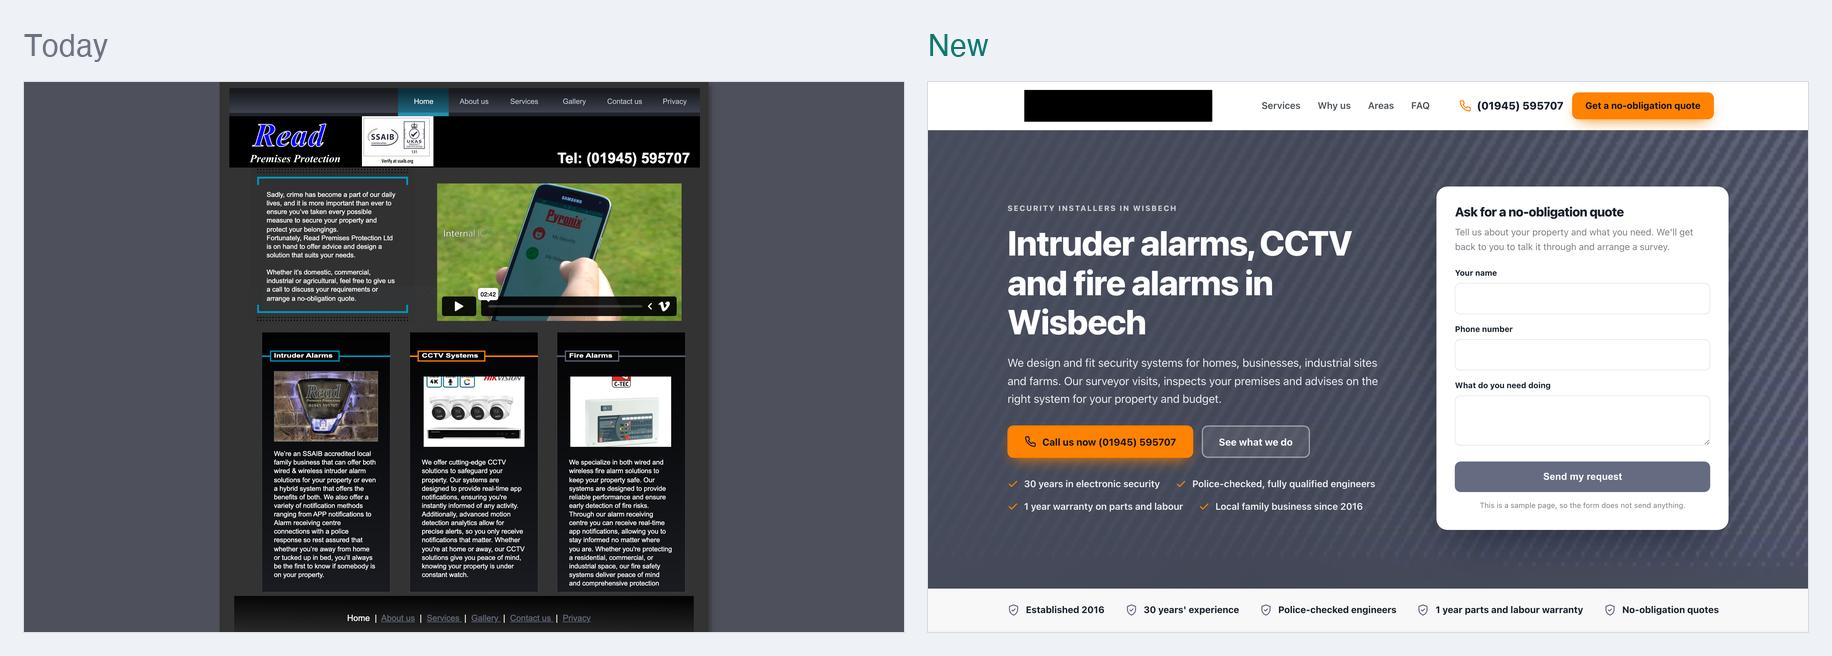
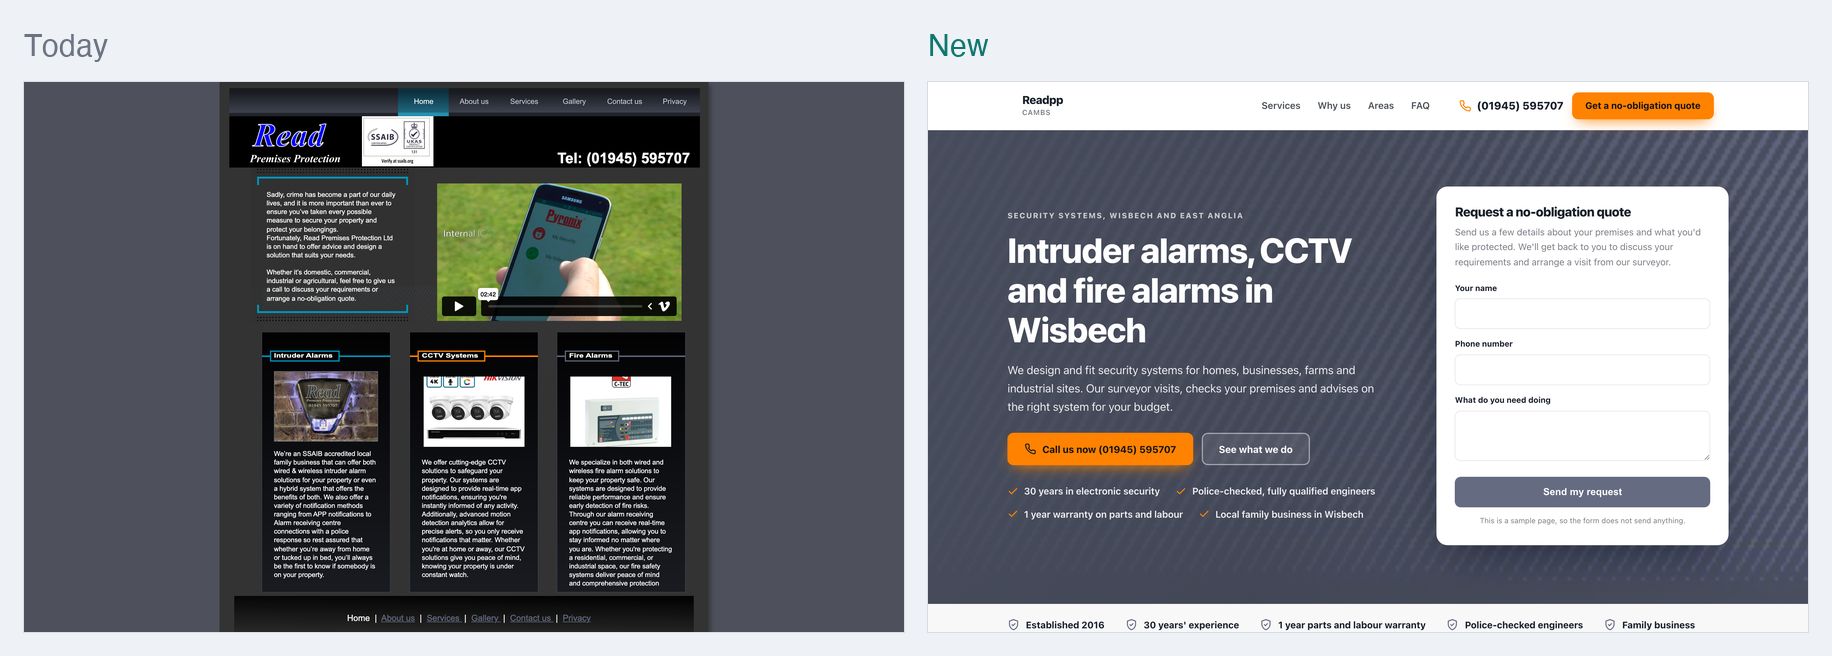
One page sample for Readpp

diff --git a/docs/7d1f97f49b/index.html b/docs/7d1f97f49b/index.html
@@ -4,14 +4,14 @@
 <meta charset="utf-8">
 <meta name="viewport" content="width=device-width, initial-scale=1">
 <meta name="robots" content="noindex,nofollow">
-<meta name="aso-build" content="a8b2d917ddff">
-<title>Security Alarms &amp; CCTV in Wisbech | Read Premises Protection</title>
-<meta name="description" content="Intruder alarms, CCTV, fire alarms and access control in Wisbech. Police-checked engineers, 30 years&#39; experience and a 1 year warranty on parts and labour.">
+<meta name="aso-build" content="519302d9b89e">
+<title>Security Alarms &amp; CCTV Wisbech | Read Premises Protection</title>
+<meta name="description" content="Intruder alarms, CCTV, fire alarms and access control in Wisbech and East Anglia. No-obligation quotes from police-checked, fully qualified engineers.">
 <link rel="canonical" href="https://markygff.github.io/aso-mockups/7d1f97f49b/">
 <meta property="og:type" content="website">
 <meta property="og:site_name" content="Readpp">
-<meta property="og:title" content="Security Alarms &amp; CCTV in Wisbech | Read Premises Protection">
-<meta property="og:description" content="Intruder alarms, CCTV, fire alarms and access control in Wisbech. Police-checked engineers, 30 years&#39; experience and a 1 year warranty on parts and labour.">
+<meta property="og:title" content="Security Alarms &amp; CCTV Wisbech | Read Premises Protection">
+<meta property="og:description" content="Intruder alarms, CCTV, fire alarms and access control in Wisbech and East Anglia. No-obligation quotes from police-checked, fully qualified engineers.">
 <meta property="og:url" content="https://markygff.github.io/aso-mockups/7d1f97f49b/">
 <meta property="og:image" content="img/p02.jpg"><meta name="twitter:card" content="summary_large_image">
 <style>
@@ -268,7 +268,10 @@ p{margin:0}
 <header class="header">
   <div class="wrap header-in">
     <div class="brand">
-<img src="img/logo.png" alt="Readpp logo">    </div>
+      <div>
+        <div class="brand-name">Readpp</div>
+<div class="brand-sub">Cambs</div>      </div>
+    </div>
     <nav class="nav">
       <a href="#services">Services</a>
       <a href="#why">Why us</a>
@@ -287,19 +290,19 @@ p{margin:0}
   <div class="hero-bg"><img src="img/p02.jpg" alt="Readpp at work" width="1600" height="900"></div>
   <div class="wrap hero-in">
     <div>
-      <p class="eyebrow">Security installers in Wisbech</p>
+      <p class="eyebrow">Security systems, Wisbech and East Anglia</p>
       <h1>Intruder alarms, CCTV and fire alarms in Wisbech</h1>
-      <p class="hero-sub">We design and fit security systems for homes, businesses, industrial sites and farms. Our surveyor visits, inspects your premises and advises on the right system for your property and budget.</p>
+      <p class="hero-sub">We design and fit security systems for homes, businesses, farms and industrial sites. Our surveyor visits, checks your premises and advises on the right system for your budget.</p>
       <div class="hero-actions">
         <a class="btn btn-accent" href="tel:+441945595707"><svg viewBox="0 0 24 24" fill="none" stroke="currentColor" stroke-width="2" stroke-linecap="round" stroke-linejoin="round" aria-hidden="true"><path d="M22 16.9v3a2 2 0 0 1-2.2 2 19.8 19.8 0 0 1-8.6-3.1 19.5 19.5 0 0 1-6-6 19.8 19.8 0 0 1-3.1-8.7A2 2 0 0 1 4.1 2h3a2 2 0 0 1 2 1.7c.1 1 .4 1.9.7 2.8a2 2 0 0 1-.5 2.1L8.1 9.9a16 16 0 0 0 6 6l1.3-1.2a2 2 0 0 1 2.1-.5c.9.3 1.8.6 2.8.7a2 2 0 0 1 1.7 2z"/></svg>Call us now (01945) 595707</a>
         <a class="btn btn-ghost" href="#services">See what we do</a>
       </div>
       <ul class="hero-bullets">
-<li><svg viewBox="0 0 24 24" fill="none" stroke="currentColor" stroke-width="2.4" stroke-linecap="round" stroke-linejoin="round" aria-hidden="true"><path d="M20 6 9 17l-5-5"/></svg><span>30 years in electronic security</span></li><li><svg viewBox="0 0 24 24" fill="none" stroke="currentColor" stroke-width="2.4" stroke-linecap="round" stroke-linejoin="round" aria-hidden="true"><path d="M20 6 9 17l-5-5"/></svg><span>Police-checked, fully qualified engineers</span></li><li><svg viewBox="0 0 24 24" fill="none" stroke="currentColor" stroke-width="2.4" stroke-linecap="round" stroke-linejoin="round" aria-hidden="true"><path d="M20 6 9 17l-5-5"/></svg><span>1 year warranty on parts and labour</span></li><li><svg viewBox="0 0 24 24" fill="none" stroke="currentColor" stroke-width="2.4" stroke-linecap="round" stroke-linejoin="round" aria-hidden="true"><path d="M20 6 9 17l-5-5"/></svg><span>Local family business since 2016</span></li>      </ul>
+<li><svg viewBox="0 0 24 24" fill="none" stroke="currentColor" stroke-width="2.4" stroke-linecap="round" stroke-linejoin="round" aria-hidden="true"><path d="M20 6 9 17l-5-5"/></svg><span>30 years in electronic security</span></li><li><svg viewBox="0 0 24 24" fill="none" stroke="currentColor" stroke-width="2.4" stroke-linecap="round" stroke-linejoin="round" aria-hidden="true"><path d="M20 6 9 17l-5-5"/></svg><span>Police-checked, fully qualified engineers</span></li><li><svg viewBox="0 0 24 24" fill="none" stroke="currentColor" stroke-width="2.4" stroke-linecap="round" stroke-linejoin="round" aria-hidden="true"><path d="M20 6 9 17l-5-5"/></svg><span>1 year warranty on parts and labour</span></li><li><svg viewBox="0 0 24 24" fill="none" stroke="currentColor" stroke-width="2.4" stroke-linecap="round" stroke-linejoin="round" aria-hidden="true"><path d="M20 6 9 17l-5-5"/></svg><span>Local family business in Wisbech</span></li>      </ul>
     </div>
     <div class="quote-card" id="quote">
-      <h3>Ask for a no-obligation quote</h3>
-      <p class="lead">Tell us about your property and what you need. We&#39;ll get back to you to talk it through and arrange a survey.</p>
+      <h3>Request a no-obligation quote</h3>
+      <p class="lead">Send us a few details about your premises and what you&#39;d like protected. We&#39;ll get back to you to discuss your requirements and arrange a visit from our surveyor.</p>
       <form action="#" onsubmit="return false" novalidate>
         <div class="field"><label for="h-name">Your name</label>
           <input id="h-name" name="name" type="text" autocomplete="name"></div>
@@ -318,9 +321,9 @@ p{margin:0}
   <div class="wrap trust-in">
     <div class="trust-item"><svg viewBox="0 0 24 24" fill="none" stroke="currentColor" stroke-width="2" stroke-linecap="round" stroke-linejoin="round" aria-hidden="true"><path d="M12 2 4 5v6c0 5 3.4 9.4 8 11 4.6-1.6 8-6 8-11V5z"/><path d="m9 12 2 2 4-4"/></svg><span>Established 2016</span></div>
     <div class="trust-item"><svg viewBox="0 0 24 24" fill="none" stroke="currentColor" stroke-width="2" stroke-linecap="round" stroke-linejoin="round" aria-hidden="true"><path d="M12 2 4 5v6c0 5 3.4 9.4 8 11 4.6-1.6 8-6 8-11V5z"/><path d="m9 12 2 2 4-4"/></svg><span>30 years&#39; experience</span></div>
-    <div class="trust-item"><svg viewBox="0 0 24 24" fill="none" stroke="currentColor" stroke-width="2" stroke-linecap="round" stroke-linejoin="round" aria-hidden="true"><path d="M12 2 4 5v6c0 5 3.4 9.4 8 11 4.6-1.6 8-6 8-11V5z"/><path d="m9 12 2 2 4-4"/></svg><span>Police-checked engineers</span></div>
     <div class="trust-item"><svg viewBox="0 0 24 24" fill="none" stroke="currentColor" stroke-width="2" stroke-linecap="round" stroke-linejoin="round" aria-hidden="true"><path d="M12 2 4 5v6c0 5 3.4 9.4 8 11 4.6-1.6 8-6 8-11V5z"/><path d="m9 12 2 2 4-4"/></svg><span>1 year parts and labour warranty</span></div>
-    <div class="trust-item"><svg viewBox="0 0 24 24" fill="none" stroke="currentColor" stroke-width="2" stroke-linecap="round" stroke-linejoin="round" aria-hidden="true"><path d="M12 2 4 5v6c0 5 3.4 9.4 8 11 4.6-1.6 8-6 8-11V5z"/><path d="m9 12 2 2 4-4"/></svg><span>No-obligation quotes</span></div>
+    <div class="trust-item"><svg viewBox="0 0 24 24" fill="none" stroke="currentColor" stroke-width="2" stroke-linecap="round" stroke-linejoin="round" aria-hidden="true"><path d="M12 2 4 5v6c0 5 3.4 9.4 8 11 4.6-1.6 8-6 8-11V5z"/><path d="m9 12 2 2 4-4"/></svg><span>Police-checked engineers</span></div>
+    <div class="trust-item"><svg viewBox="0 0 24 24" fill="none" stroke="currentColor" stroke-width="2" stroke-linecap="round" stroke-linejoin="round" aria-hidden="true"><path d="M12 2 4 5v6c0 5 3.4 9.4 8 11 4.6-1.6 8-6 8-11V5z"/><path d="m9 12 2 2 4-4"/></svg><span>Family business</span></div>
   </div>
 </div>
 
@@ -328,29 +331,29 @@ p{margin:0}
   <div class="wrap">
     <div class="section-head">
       <p class="eyebrow">What we do</p>
-      <h2>Security systems we install</h2>
-      <p>We fit security systems for domestic, commercial, industrial and agricultural properties. Every job starts with a survey so you get the right system.</p>
+      <h2>Security systems we install in Wisbech</h2>
+      <p>We fit and advise on security for domestic, commercial, industrial and agricultural premises. Tell us what you need protecting and we&#39;ll suggest the right system.</p>
     </div>
     <div class="grid grid-3">
       <article class="card">
         <div class="icon"><svg viewBox="0 0 24 24" fill="none" stroke="currentColor" stroke-width="2" stroke-linecap="round" stroke-linejoin="round" aria-hidden="true"><path d="M14.7 6.3a4 4 0 0 0 5.3 5.3l-8 8a3 3 0 0 1-4.2-4.2z"/><path d="m14.7 6.3 3-3"/></svg></div>
         <h3>Intruder Alarms</h3>
-        <p>Wired, wireless or hybrid alarms. Choose app alerts or a link to an alarm receiving centre with a police response.</p>
+        <p>Wired, wireless or hybrid alarms with app alerts or an alarm receiving centre link with police response.</p>
       </article>
       <article class="card">
         <div class="icon"><svg viewBox="0 0 24 24" fill="none" stroke="currentColor" stroke-width="2" stroke-linecap="round" stroke-linejoin="round" aria-hidden="true"><path d="M13 2 4 14h7l-1 8 9-12h-7z"/></svg></div>
-        <h3>CCTV Systems</h3>
-        <p>Cameras with real-time app alerts and motion detection analytics, so you only get told about activity that matters.</p>
+        <h3>CCTV systems</h3>
+        <p>Cameras with real-time app alerts and motion detection analytics, so you only get the notifications that matter.</p>
       </article>
       <article class="card">
         <div class="icon"><svg viewBox="0 0 24 24" fill="none" stroke="currentColor" stroke-width="2" stroke-linecap="round" stroke-linejoin="round" aria-hidden="true"><path d="M3 10.5 12 3l9 7.5"/><path d="M5 9.5V21h14V9.5"/><path d="M10 21v-6h4v6"/></svg></div>
         <h3>Access Control Systems</h3>
-        <p>Control who can get into your premises. Our surveyor will advise on the right setup for your property and budget.</p>
+        <p>Control who can get into your premises. Our surveyor will advise on the right setup for your building and budget.</p>
       </article>
       <article class="card">
         <div class="icon"><svg viewBox="0 0 24 24" fill="none" stroke="currentColor" stroke-width="2" stroke-linecap="round" stroke-linejoin="round" aria-hidden="true"><path d="M4 20 15 9"/><path d="m14 4 6 6-3 3-6-6z"/><path d="m3 15 6 6"/></svg></div>
-        <h3>Fire Alarms</h3>
-        <p>Wired and wireless fire alarms for homes, businesses and industrial sites, with early detection and app alerts through our alarm receiving centre.</p>
+        <h3>Fire alarms</h3>
+        <p>Wired and wireless fire alarms for homes, businesses and industrial sites, with real-time app alerts through our alarm receiving centre.</p>
       </article>
     </div>
   </div>
@@ -360,35 +363,35 @@ p{margin:0}
   <div class="wrap">
     <div class="section-head">
       <p class="eyebrow">Why us</p>
-      <h2>Why people choose Read Premises Protection</h2>
+      <h2>Why choose Read Premises Protection</h2>
     </div>
     <div class="grid grid-2">
       <div class="why-item">
         <div class="why-badge">1</div>
         <div>
-          <h3>Advice before anything else</h3>
-          <p>Our surveyor visits, carries out a full inspection and recommends a system to suit your property and budget.</p>
+          <h3>Years of experience</h3>
+          <p>We&#39;ve been established since 2016 and bring 30 years of expertise in electronic security systems.</p>
         </div>
       </div>
       <div class="why-item">
         <div class="why-badge">2</div>
         <div>
-          <h3>Police-checked engineers</h3>
-          <p>Our engineers are fully trained to the highest standards and have undergone strict police checks.</p>
+          <h3>Vetted engineers</h3>
+          <p>Our engineers are fully trained to the highest standards and have passed strict police checks.</p>
         </div>
       </div>
       <div class="why-item">
         <div class="why-badge">3</div>
         <div>
-          <h3>Out at short notice</h3>
-          <p>We can often have an engineer on site at short notice. We work around your business to keep disruption low.</p>
+          <h3>Covered for a year</h3>
+          <p>All our work comes with a 1 year warranty on parts and labour.</p>
         </div>
       </div>
       <div class="why-item">
         <div class="why-badge">4</div>
         <div>
-          <h3>Work that&#39;s covered</h3>
-          <p>Every job we do carries a 1 year warranty on all parts and labour.</p>
+          <h3>Minimal disruption</h3>
+          <p>We work around your business and can often have an engineer on site at short notice.</p>
         </div>
       </div>
     </div>
@@ -400,8 +403,8 @@ p{margin:0}
   <div class="wrap">
     <div class="section-head">
       <p class="eyebrow">Where we work</p>
-      <h2>Security installers covering Wisbech and East Anglia</h2>
-      <p>We&#39;re based in Wisbech, on the borders of Cambridgeshire, Norfolk and Lincolnshire. From here we cover all areas of East Anglia.</p>
+      <h2>Security installers based in Wisbech</h2>
+      <p>We&#39;re based in Wisbech, on the borders of Cambridgeshire, Norfolk and Lincolnshire. That puts us in a good position to serve all areas of East Anglia.</p>
     </div>
     <ul class="area-list">
 <li>Wisbech</li>    </ul>
@@ -412,27 +415,27 @@ p{margin:0}
   <div class="wrap" style="max-width:840px">
     <div class="section-head">
       <p class="eyebrow">Questions</p>
-      <h2>Alarm and CCTV questions answered</h2>
+      <h2>Security system questions</h2>
     </div>
     <div class="faq-item">
-      <h3><span>Q.</span>How quickly can you get a security engineer out in Wisbech?</h3>
-      <p>We can often have an engineer on site at short notice to give advice on any aspect of security. Send the quote form and we&#39;ll arrange a visit that suits you.</p>
+      <h3><span>Q.</span>How quickly can a security engineer come out in Wisbech?</h3>
+      <p>We can often have an engineer on site at short notice to give advice on all aspects of security. Send us the details of your premises and we&#39;ll arrange a visit.</p>
     </div>
     <div class="faq-item">
-      <h3><span>Q.</span>Can I get a no-obligation quote for an alarm or CCTV?</h3>
-      <p>Yes. We give no-obligation quotes for domestic, commercial, industrial and agricultural properties. Our surveyor will look at your premises and tell you what we&#39;d recommend.</p>
+      <h3><span>Q.</span>Do you offer no-obligation quotes for alarms and CCTV?</h3>
+      <p>Yes. We&#39;ll discuss your requirements and arrange a no-obligation quote for domestic, commercial, industrial or agricultural premises.</p>
     </div>
     <div class="faq-item">
       <h3><span>Q.</span>What happens on the first visit?</h3>
-      <p>Our surveyor visits your premises and carries out a full inspection. After that we&#39;ll advise you on the best course of action to suit your property and your budget.</p>
+      <p>Our surveyor visits your premises and carries out a full inspection. After that, they&#39;ll advise you on the best course of action to suit your property and your budget.</p>
     </div>
     <div class="faq-item">
-      <h3><span>Q.</span>What areas do you cover for security installations?</h3>
-      <p>We&#39;re based in Wisbech, on the borders of Cambridgeshire, Norfolk and Lincolnshire. We cover all areas of East Anglia.</p>
+      <h3><span>Q.</span>Which areas do you cover from Wisbech?</h3>
+      <p>We&#39;re based in Wisbech, on the borders of Cambridgeshire, Norfolk and Lincolnshire, and we serve all areas of East Anglia.</p>
     </div>
     <div class="faq-item">
-      <h3><span>Q.</span>Can my alarm or CCTV send alerts to my phone?</h3>
-      <p>Yes. Our intruder alarms can send app notifications or connect to an alarm receiving centre with a police response. Our CCTV sends real-time app alerts, and our fire alarms can alert you through our alarm receiving centre.</p>
+      <h3><span>Q.</span>Should I get a wired or wireless burglar alarm?</h3>
+      <p>We fit both wired and wireless intruder alarms, and hybrid systems that give you the benefits of both. Our surveyor will look at your property and recommend the one that suits it and your budget.</p>
     </div>
   </div>
 </section>
@@ -441,8 +444,8 @@ p{margin:0}
   <div class="wrap contact-in">
     <div>
       <p class="eyebrow">Get in touch</p>
-      <h2 style="font-size:clamp(1.75rem,3.2vw,2.4rem);margin-bottom:14px">Ask for a no-obligation quote</h2>
-      <p style="color:var(--muted);font-size:1.06rem">Tell us about your property and what you need. We&#39;ll get back to you to talk it through and arrange a survey.</p>
+      <h2 style="font-size:clamp(1.75rem,3.2vw,2.4rem);margin-bottom:14px">Request a no-obligation quote</h2>
+      <p style="color:var(--muted);font-size:1.06rem">Send us a few details about your premises and what you&#39;d like protected. We&#39;ll get back to you to discuss your requirements and arrange a visit from our surveyor.</p>
       <div class="contact-facts">
         <div class="fact-row"><svg viewBox="0 0 24 24" fill="none" stroke="currentColor" stroke-width="2" stroke-linecap="round" stroke-linejoin="round" aria-hidden="true"><path d="M22 16.9v3a2 2 0 0 1-2.2 2 19.8 19.8 0 0 1-8.6-3.1 19.5 19.5 0 0 1-6-6 19.8 19.8 0 0 1-3.1-8.7A2 2 0 0 1 4.1 2h3a2 2 0 0 1 2 1.7c.1 1 .4 1.9.7 2.8a2 2 0 0 1-.5 2.1L8.1 9.9a16 16 0 0 0 6 6l1.3-1.2a2 2 0 0 1 2.1-.5c.9.3 1.8.6 2.8.7a2 2 0 0 1 1.7 2z"/></svg><div><strong>Phone</strong>
           <a href="tel:+441945595707">(01945) 595707</a></div></div>
@@ -462,7 +465,7 @@ p{margin:0}
           <input id="c-email" name="email" type="email" autocomplete="email"></div>
         <div class="field"><label for="c-service">What do you need</label>
           <select id="c-service" name="service">
-<option>Intruder Alarms</option><option>CCTV Systems</option><option>Access Control Systems</option><option>Fire Alarms</option>            <option>Something else</option>
+<option>Intruder Alarms</option><option>CCTV systems</option><option>Access Control Systems</option><option>Fire alarms</option>            <option>Something else</option>
           </select></div>
         <div class="field"><label for="c-msg">Tell us about the job</label>
           <textarea id="c-msg" name="message"></textarea></div>
@@ -479,11 +482,11 @@ p{margin:0}
     <div class="footer-in">
       <div>
         <div class="footer-brand">Readpp</div>
-        <p>Intruder alarms, CCTV, access control and fire alarms for homes and businesses in Wisbech and East Anglia.</p>
+        <p>Intruder alarms, CCTV, access control and fire alarms for homes and businesses across Wisbech and East Anglia.</p>
 <p style="margin-top:14px"><a href="tel:+441945595707">(01945) 595707</a></p>      </div>
       <div>
         <h4>Services</h4>
-        <ul><li>Intruder Alarms</li><li>CCTV Systems</li><li>Access Control Systems</li><li>Fire Alarms</li></ul>
+        <ul><li>Intruder Alarms</li><li>CCTV systems</li><li>Access Control Systems</li><li>Fire alarms</li></ul>
       </div>
       <div>
         <h4>Areas</h4>
@@ -503,7 +506,7 @@ p{margin:0}
     "@type": "LocalBusiness",
     "name": "Readpp",
     "url": "https://markygff.github.io/aso-mockups/7d1f97f49b/",
-    "description": "Intruder alarms, CCTV, fire alarms and access control in Wisbech. Police-checked engineers, 30 years' experience and a 1 year warranty on parts and labour.",
+    "description": "Intruder alarms, CCTV, fire alarms and access control in Wisbech and East Anglia. No-obligation quotes from police-checked, fully qualified engineers.",
     "telephone": "(01945) 595707",
     "address": {
       "@type": "PostalAddress",
@@ -530,7 +533,7 @@ p{margin:0}
         "@type": "Offer",
         "itemOffered": {
           "@type": "Service",
-          "name": "CCTV Systems"
+          "name": "CCTV systems"
         }
       },
       {
@@ -544,7 +547,7 @@ p{margin:0}
         "@type": "Offer",
         "itemOffered": {
           "@type": "Service",
-          "name": "Fire Alarms"
+          "name": "Fire alarms"
         }
       }
     ],
@@ -556,18 +559,18 @@ p{margin:0}
     "mainEntity": [
       {
         "@type": "Question",
-        "name": "How quickly can you get a security engineer out in Wisbech?",
+        "name": "How quickly can a security engineer come out in Wisbech?",
         "acceptedAnswer": {
           "@type": "Answer",
-          "text": "We can often have an engineer on site at short notice to give advice on any aspect of security. Send the quote form and we'll arrange a visit that suits you."
+          "text": "We can often have an engineer on site at short notice to give advice on all aspects of security. Send us the details of your premises and we'll arrange a visit."
         }
       },
       {
         "@type": "Question",
-        "name": "Can I get a no-obligation quote for an alarm or CCTV?",
+        "name": "Do you offer no-obligation quotes for alarms and CCTV?",
         "acceptedAnswer": {
           "@type": "Answer",
-          "text": "Yes. We give no-obligation quotes for domestic, commercial, industrial and agricultural properties. Our surveyor will look at your premises and tell you what we'd recommend."
+          "text": "Yes. We'll discuss your requirements and arrange a no-obligation quote for domestic, commercial, industrial or agricultural premises."
         }
       },
       {
@@ -575,23 +578,23 @@ p{margin:0}
         "name": "What happens on the first visit?",
         "acceptedAnswer": {
           "@type": "Answer",
-          "text": "Our surveyor visits your premises and carries out a full inspection. After that we'll advise you on the best course of action to suit your property and your budget."
+          "text": "Our surveyor visits your premises and carries out a full inspection. After that, they'll advise you on the best course of action to suit your property and your budget."
         }
       },
       {
         "@type": "Question",
-        "name": "What areas do you cover for security installations?",
+        "name": "Which areas do you cover from Wisbech?",
         "acceptedAnswer": {
           "@type": "Answer",
-          "text": "We're based in Wisbech, on the borders of Cambridgeshire, Norfolk and Lincolnshire. We cover all areas of East Anglia."
+          "text": "We're based in Wisbech, on the borders of Cambridgeshire, Norfolk and Lincolnshire, and we serve all areas of East Anglia."
         }
       },
       {
         "@type": "Question",
-        "name": "Can my alarm or CCTV send alerts to my phone?",
+        "name": "Should I get a wired or wireless burglar alarm?",
         "acceptedAnswer": {
           "@type": "Answer",
-          "text": "Yes. Our intruder alarms can send app notifications or connect to an alarm receiving centre with a police response. Our CCTV sends real-time app alerts, and our fire alarms can alert you through our alarm receiving centre."
+          "text": "We fit both wired and wireless intruder alarms, and hybrid systems that give you the benefits of both. Our surveyor will look at your property and recommend the one that suits it and your budget."
         }
       }
     ]
